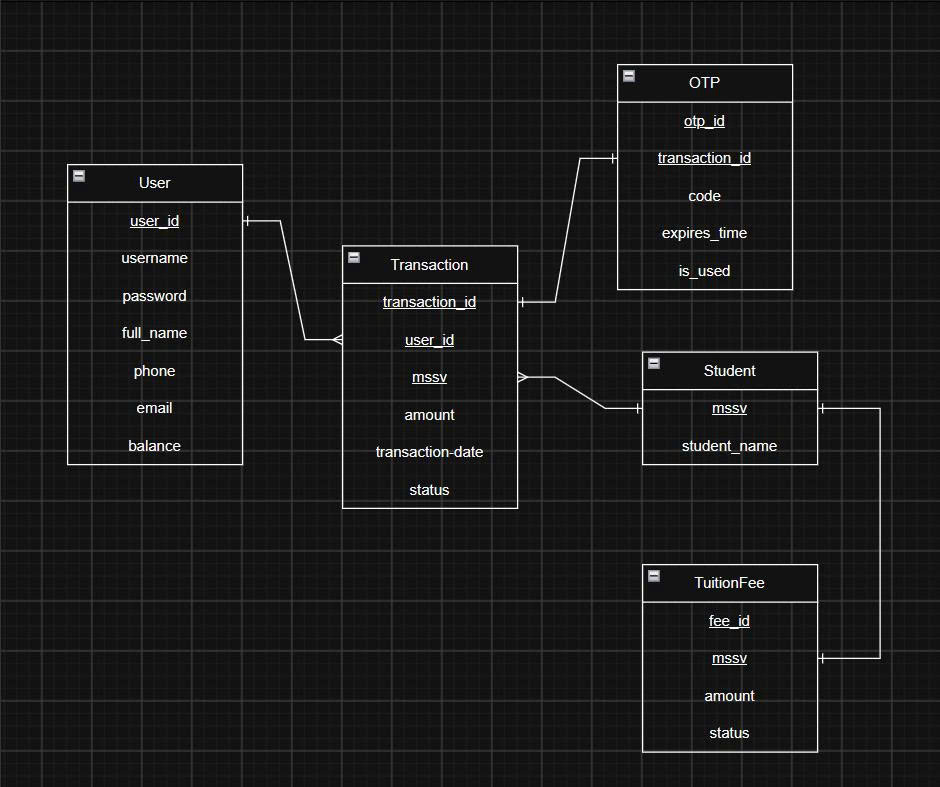
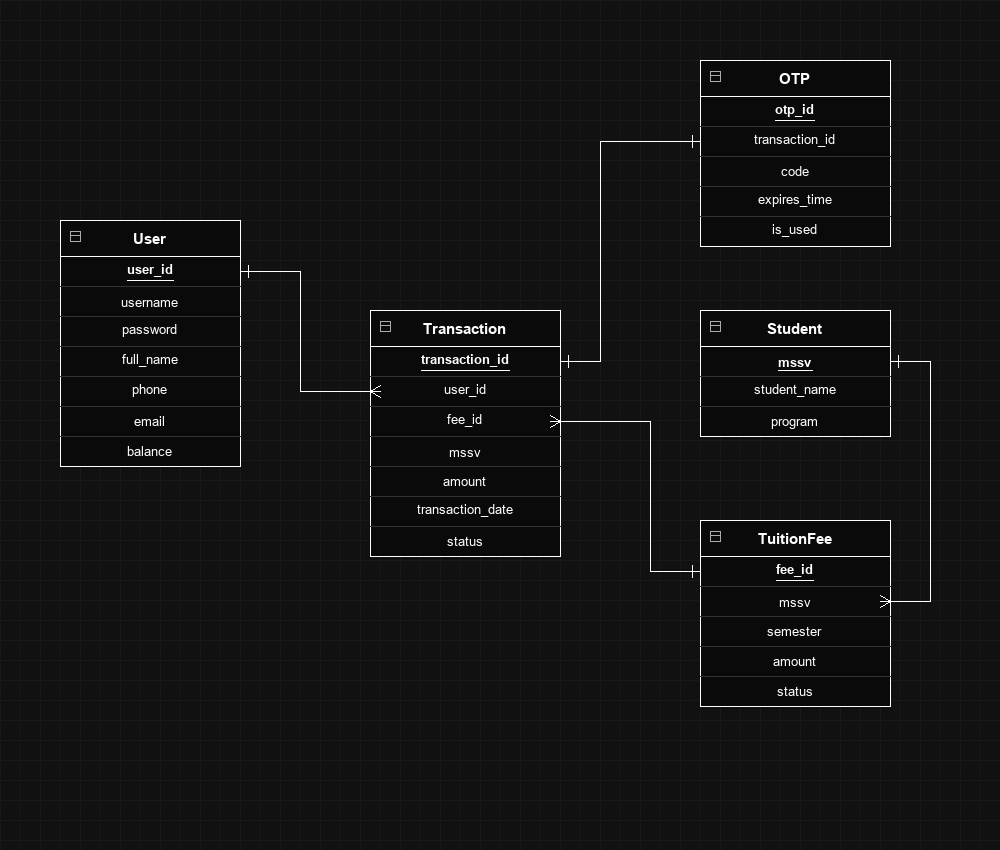
Update ERD diagram with fee_id relationship, remove 4 old diagrams, keep 3 official diagrams

diff --git a/scripts/draw_erd_diagram.py b/scripts/draw_erd_diagram.py
@@ -1,0 +1,182 @@
+import os
+from PIL import Image, ImageDraw, ImageFont
+
+def draw_erd():
+    W, H = 1000, 850
+    img = Image.new("RGBA", (W, H), "#111111")
+    draw = ImageDraw.Draw(img)
+
+    # 1. Grid background
+    grid_size = 20
+    for x in range(0, W, grid_size):
+        draw.line([(x, 0), (x, H)], fill="#181818", width=1)
+    for y in range(0, H, grid_size):
+        draw.line([(0, y), (W, y)], fill="#181818", width=1)
+
+    # Load font
+    try:
+        font_header = ImageFont.truetype("arialbd.ttf", 15)
+        font_field = ImageFont.truetype("arial.ttf", 13)
+        font_pk = ImageFont.truetype("arialbd.ttf", 13)
+    except Exception:
+        font_header = ImageFont.load_default()
+        font_field = ImageFont.load_default()
+        font_pk = ImageFont.load_default()
+
+    def draw_entity(x, y, w, header_title, fields):
+        row_h = 30
+        h = 36 + len(fields) * row_h
+        # Khung viền ngoài
+        draw.rectangle([x, y, x + w, y + h], fill="#0a0a0a", outline="#ffffff", width=1)
+        
+        # Header nhỏ hình icon bảng
+        draw.rectangle([x + 10, y + 11, x + 20, y + 21], outline="#aaaaaa", width=1)
+        draw.line([(x + 10, y + 15), (x + 20, y + 15)], fill="#aaaaaa", width=1)
+        
+        # Tiêu đề Header
+        bbox_h = font_header.getbbox(header_title)
+        tw_h, th_h = bbox_h[2] - bbox_h[0], bbox_h[3] - bbox_h[1]
+        draw.text((x + (w - tw_h) // 2, y + (36 - th_h) // 2 - 2), header_title, fill="#ffffff", font=font_header)
+        
+        # Đường kẻ ngang ngăn Header
+        draw.line([(x, y + 36), (x + w, y + 36)], fill="#ffffff", width=1)
+
+        # Các dòng field
+        field_y_centers = []
+        for i, (field_name, is_pk) in enumerate(fields):
+            curr_y = y + 36 + i * row_h
+            if i > 0:
+                draw.line([(x, curr_y), (x + w, curr_y)], fill="#333333", width=1)
+            
+            f_font = font_pk if is_pk else font_field
+            bbox_f = f_font.getbbox(field_name)
+            tw_f, th_f = bbox_f[2] - bbox_f[0], bbox_f[3] - bbox_f[1]
+            text_x = x + (w - tw_f) // 2
+            text_y = curr_y + (row_h - th_f) // 2 - 2
+            draw.text((text_x, text_y), field_name, fill="#ffffff", font=f_font)
+            
+            # Gạch chân nếu là PK
+            if is_pk:
+                underline_y = curr_y + row_h - 6
+                draw.line([(text_x, underline_y), (text_x + tw_f, underline_y)], fill="#ffffff", width=1)
+            
+            field_y_centers.append(curr_y + row_h // 2)
+
+        return {"x": x, "y": y, "w": w, "h": h, "rows": field_y_centers}
+
+    # Định nghĩa các thực thể và vị trí
+    # 1. User
+    user_fields = [
+        ("user_id", True),
+        ("username", False),
+        ("password", False),
+        ("full_name", False),
+        ("phone", False),
+        ("email", False),
+        ("balance", False)
+    ]
+    u = draw_entity(60, 220, 180, "User", user_fields)
+
+    # 2. Transaction
+    tx_fields = [
+        ("transaction_id", True),
+        ("user_id", False),
+        ("fee_id", False),
+        ("mssv", False),
+        ("amount", False),
+        ("transaction_date", False),
+        ("status", False)
+    ]
+    tx = draw_entity(370, 310, 190, "Transaction", tx_fields)
+
+    # 3. OTP
+    otp_fields = [
+        ("otp_id", True),
+        ("transaction_id", False),
+        ("code", False),
+        ("expires_time", False),
+        ("is_used", False)
+    ]
+    otp = draw_entity(700, 60, 190, "OTP", otp_fields)
+
+    # 4. Student
+    student_fields = [
+        ("mssv", True),
+        ("student_name", False),
+        ("program", False)
+    ]
+    stu = draw_entity(700, 310, 190, "Student", student_fields)
+
+    # 5. TuitionFee
+    fee_fields = [
+        ("fee_id", True),
+        ("mssv", False),
+        ("semester", False),
+        ("amount", False),
+        ("status", False)
+    ]
+    fee = draw_entity(700, 520, 190, "TuitionFee", fee_fields)
+
+    # Hàm vẽ ký hiệu Crow's foot (chân quạ - Many) và Crossbar (One)
+    def draw_crow_foot_at_left_edge(x, y):
+        # Mở rộng về bên phải (chạm vào mép trái của entity)
+        draw.line([(x + 10, y - 6), (x, y)], fill="#ffffff", width=1)
+        draw.line([(x + 10, y + 6), (x, y)], fill="#ffffff", width=1)
+        draw.line([(x + 10, y), (x, y)], fill="#ffffff", width=1)
+
+    def draw_crow_foot_at_right_edge(x, y):
+        # Mở rộng về bên trái (chạm vào mép phải của entity)
+        draw.line([(x - 10, y - 6), (x, y)], fill="#ffffff", width=1)
+        draw.line([(x - 10, y + 6), (x, y)], fill="#ffffff", width=1)
+        draw.line([(x - 10, y), (x, y)], fill="#ffffff", width=1)
+
+    def draw_crossbar_v(x, y):
+        # Vạch đứng biểu thị "1" (One)
+        draw.line([(x, y - 6), (x, y + 6)], fill="#ffffff", width=1)
+
+    # ========================================================
+    # VẼ CÁC ĐƯỜNG LIÊN KẾT (RELATIONSHIPS)
+    # ========================================================
+
+    # 1. User (1) ----< Transaction (N)
+    u_pt = (u["x"] + u["w"], u["rows"][0]) # user_id
+    tx_pt_user = (tx["x"], tx["rows"][1])  # user_id
+    mid_x1 = 300
+    draw.line([u_pt, (mid_x1, u_pt[1]), (mid_x1, tx_pt_user[1]), tx_pt_user], fill="#ffffff", width=1)
+    draw_crossbar_v(u_pt[0] + 8, u_pt[1])
+    draw_crow_foot_at_left_edge(tx_pt_user[0], tx_pt_user[1])
+
+    # 2. Transaction (1) ---- (1) OTP
+    tx_pt_otp = (tx["x"] + tx["w"], tx["rows"][0]) # transaction_id
+    otp_pt = (otp["x"], otp["rows"][1])            # transaction_id
+    mid_x2 = 600  # Riêng biệt, không trùng mid_x3
+    draw.line([tx_pt_otp, (mid_x2, tx_pt_otp[1]), (mid_x2, otp_pt[1]), otp_pt], fill="#ffffff", width=1)
+    draw_crossbar_v(tx_pt_otp[0] + 8, tx_pt_otp[1])
+    draw_crossbar_v(otp_pt[0] - 8, otp_pt[1])
+
+    # 3. Student (1) ----< TuitionFee (N)
+    stu_pt = (stu["x"] + stu["w"], stu["rows"][0]) # mssv
+    fee_pt_stu = (fee["x"] + fee["w"], fee["rows"][1]) # mssv
+    out_x = 930
+    draw.line([stu_pt, (out_x, stu_pt[1]), (out_x, fee_pt_stu[1]), fee_pt_stu], fill="#ffffff", width=1)
+    draw_crossbar_v(stu_pt[0] + 8, stu_pt[1])
+    draw_crow_foot_at_right_edge(fee_pt_stu[0], fee_pt_stu[1])
+
+    # 4. TuitionFee (1) ----< Transaction (N) [LIÊN KẾT CHUẨN XÁC VỚI FEE_ID]
+    tx_pt_fee = (tx["x"] + tx["w"], tx["rows"][2]) # fee_id
+    fee_pt = (fee["x"], fee["rows"][0])           # fee_id
+    mid_x3 = 650  # Cách xa mid_x2 (600) để không dính nhau
+    draw.line([tx_pt_fee, (mid_x3, tx_pt_fee[1]), (mid_x3, fee_pt[1]), fee_pt], fill="#ffffff", width=1)
+    draw_crow_foot_at_right_edge(tx_pt_fee[0], tx_pt_fee[1])
+    draw_crossbar_v(fee_pt[0] - 8, fee_pt[1])
+
+    # Lưu ảnh ra so_do_erd.jpg
+    out_file = os.path.join(
+        os.path.dirname(os.path.dirname(os.path.abspath(__file__))),
+        "docs", "diagrams", "so_do_erd.jpg"
+    )
+    img_rgb = img.convert("RGB")
+    img_rgb.save(out_file, quality=95)
+
+if __name__ == "__main__":
+    draw_erd()
